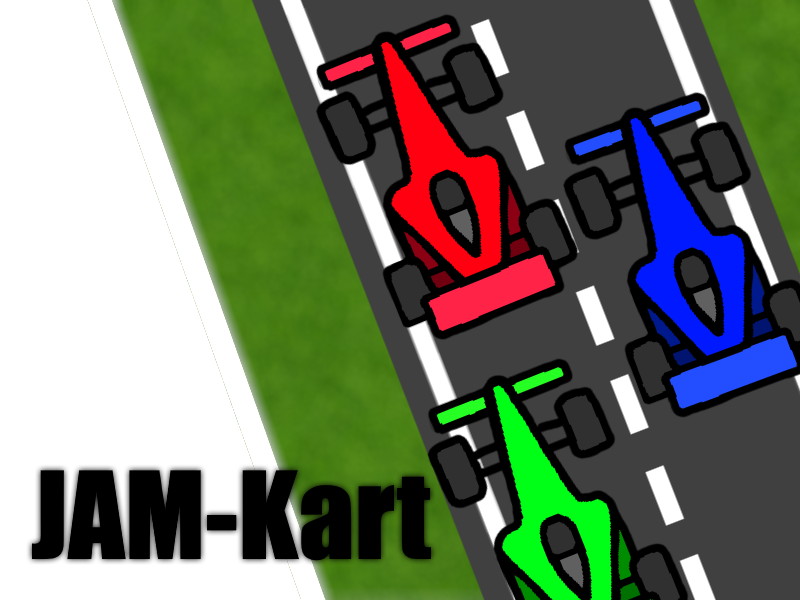
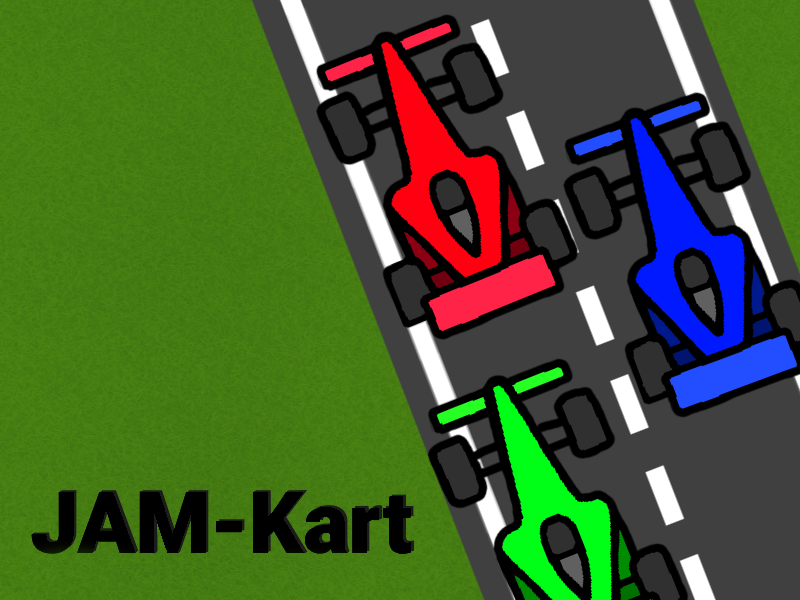
Added name validation & updated image in main menu
Added name validation for createGame and joinGame scenes. Also replaced the image in the main menu.

Changed region(s): [[0.0, 0.0, 0.625, 1.0]]

diff --git a/src/main/java/ch/bbcag/jamkart/client/graphics/scenes/SceneJoinGame.java b/src/main/java/ch/bbcag/jamkart/client/graphics/scenes/SceneJoinGame.java
@@ -44,7 +44,14 @@ public class SceneJoinGame extends Scene {
                         "-fx-font-size: 18px;"
         );
 
+        VBox nameBox = new VBox();
         inputName = new TextField();
+        Text nameError = new Text();
+        nameError.setStyle(
+                "-fx-font-weight: bold;" +
+                        "-fx-font-size: 14px;"
+        );
+        VBox.setMargin(nameError, new Insets(-10, 0, 0, 15));
         inputName.setPromptText("Name eingeben:");
         inputName.setStyle(
                 "-fx-background-radius: 3em;" +
@@ -53,6 +60,7 @@ public class SceneJoinGame extends Scene {
                         "-fx-font-weight: bold;" +
                         "-fx-font-size: 18px;"
         );
+        nameBox.getChildren().addAll(nameError, inputName);
 
         VBox ipBox = new VBox();
         inputIp = new TextField();
@@ -99,23 +107,45 @@ public class SceneJoinGame extends Scene {
                         "-fx-font-size: 18px;"
         );
 
-        contentBox.getChildren().addAll(mainMenuBtn, inputName, ipBox, portBox, joinGame);
+        contentBox.getChildren().addAll(mainMenuBtn, nameBox, ipBox, portBox, joinGame);
 
         pane.setLeft(contentBox);
         rootNode.getChildren().add(pane);
         mainMenuBtn.setOnAction(e -> app.getNavigator().navigateTo(SceneType.START));
-        joinGame.setOnAction(e -> validateInputAndJoinGame(ipError, portError));
+        joinGame.setOnAction(e -> validateInputAndJoinGame(ipError, portError, nameError));
         pane.setMinSize(800, 600);
     }
 
-    private void validateInputAndJoinGame(Text ipError, Text portError) {
-        if (Validator.validateIP(inputIp.getText()) && Validator.validatePort(inputPort.getText())) {
-            ipError.setText("");
-            portError.setText("");
+    private void setErrorMessage(boolean isCorrect, Text errorMessage) {
+        if (isCorrect) {
+            errorMessage.setText("");
+        } else {
+            errorMessage.setText("invalide Eingabe");
+        }
+    }
+
+    private void validateInputAndJoinGame(Text ipError, Text portError, Text nameError) {
+        if (Validator.validateIP(inputIp.getText()) && Validator.validatePort(inputPort.getText()) && Validator.validateName(inputName.getText())) {
+            setErrorMessage(true, ipError);
+            setErrorMessage(true, portError);
+            setErrorMessage(true, nameError);
             joinGame();
         } else {
-            ipError.setText("invalide IP-Adresse");
-            portError.setText("invalider Port");
+            if (!Validator.validateIP(inputIp.getText())) {
+                setErrorMessage(false, ipError);
+            } else {
+                setErrorMessage(true, ipError);
+            }
+            if (!Validator.validatePort(inputPort.getText())) {
+                setErrorMessage(false, portError);
+            } else{
+                setErrorMessage(true, portError);
+            }
+            if (!Validator.validateName(inputName.getText())) {
+                setErrorMessage(false, nameError);
+            } else {
+                setErrorMessage(true, nameError);
+            }
         }
     }
 

diff --git a/src/main/java/ch/bbcag/jamkart/client/graphics/scenes/SceneCreateGame.java b/src/main/java/ch/bbcag/jamkart/client/graphics/scenes/SceneCreateGame.java
@@ -44,7 +44,14 @@ public class SceneCreateGame extends Scene {
                         "-fx-font-size: 18px;"
         );
 
+        VBox nameBox = new VBox();
         inputName = new TextField();
+        Text nameError = new Text();
+        nameError.setStyle(
+                "-fx-font-weight: bold;" +
+                        "-fx-font-size: 14px;"
+        );
+        VBox.setMargin(nameError, new Insets(-10, 0, 0, 15));
         inputName.setPromptText("Name eingeben:");
         inputName.setStyle(
                 "-fx-background-radius: 3em;" +
@@ -53,6 +60,7 @@ public class SceneCreateGame extends Scene {
                         "-fx-font-weight: bold;" +
                         "-fx-font-size: 18px;"
         );
+        nameBox.getChildren().addAll(nameError, inputName);
 
         VBox portBox = new VBox();
         inputPort = new TextField();
@@ -81,23 +89,42 @@ public class SceneCreateGame extends Scene {
                         "-fx-font-size: 18px;"
         );
 
-        contentBox.getChildren().addAll(mainMenuBtn, inputName, portBox, createGame);
+        contentBox.getChildren().addAll(mainMenuBtn, nameBox, portBox, createGame);
 
         pane.setLeft(contentBox);
         rootNode.getChildren().add(pane);
         mainMenuBtn.setOnAction(e -> app.getNavigator().navigateTo(SceneType.START));
-        createGame.setOnAction(e -> validateInputAndCreateGame(portError));
+        createGame.setOnAction(e -> validateInputAndCreateGame(portError, nameError));
         pane.setMinSize(800, 600);
     }
 
-    private void validateInputAndCreateGame(Text errorMessage) {
-        if (Validator.validatePort(inputPort.getText())) {
+    private void setErrorMessage(boolean isCorrect, Text errorMessage) {
+        if (isCorrect) {
             errorMessage.setText("");
-            createGame();
         } else {
-            errorMessage.setText("invalider Port");
+            errorMessage.setText("invalide Eingabe");
         }
     }
+
+    private void validateInputAndCreateGame(Text portError, Text nameError) {
+        if (Validator.validatePort(inputPort.getText()) && Validator.validateName(inputName.getText())) {
+            setErrorMessage(true, portError);
+            setErrorMessage(true, nameError);
+            createGame();
+        } else {
+            if (!Validator.validatePort(inputPort.getText())) {
+                setErrorMessage(false, portError);
+            } else{
+                setErrorMessage(true, portError);
+            }
+            if (!Validator.validateName(inputName.getText())) {
+                setErrorMessage(false, nameError);
+            } else {
+                setErrorMessage(true, nameError);
+            }
+        }
+    }
+
 
     private void createGame() {
         int port = Integer.parseInt(inputPort.getText());

diff --git a/src/main/java/ch/bbcag/jamkart/client/graphics/scenes/validation/Validator.java b/src/main/java/ch/bbcag/jamkart/client/graphics/scenes/validation/Validator.java
@@ -37,4 +37,8 @@ public class Validator {
         }
         return true;
     }
+
+    public static boolean validateName(String name){
+        return name.matches("(?i)(^[a-z]+)[a-z .,-]((?! .,-)$){1,25}$");
+    }
 }
